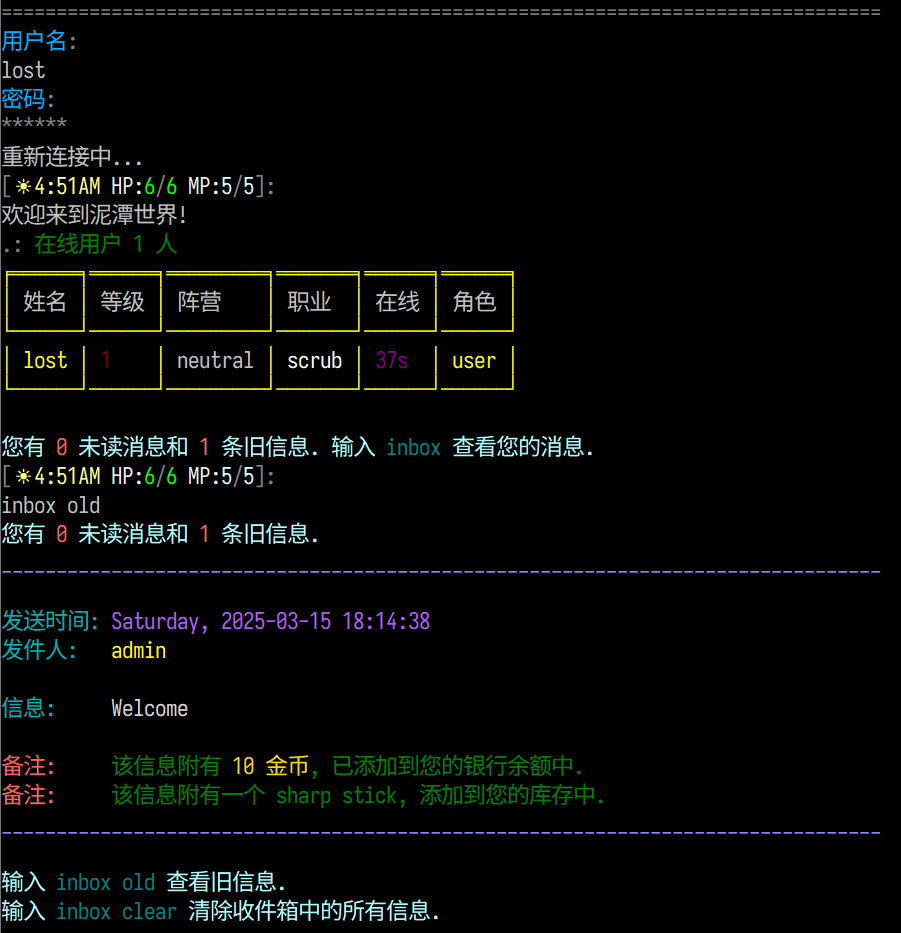
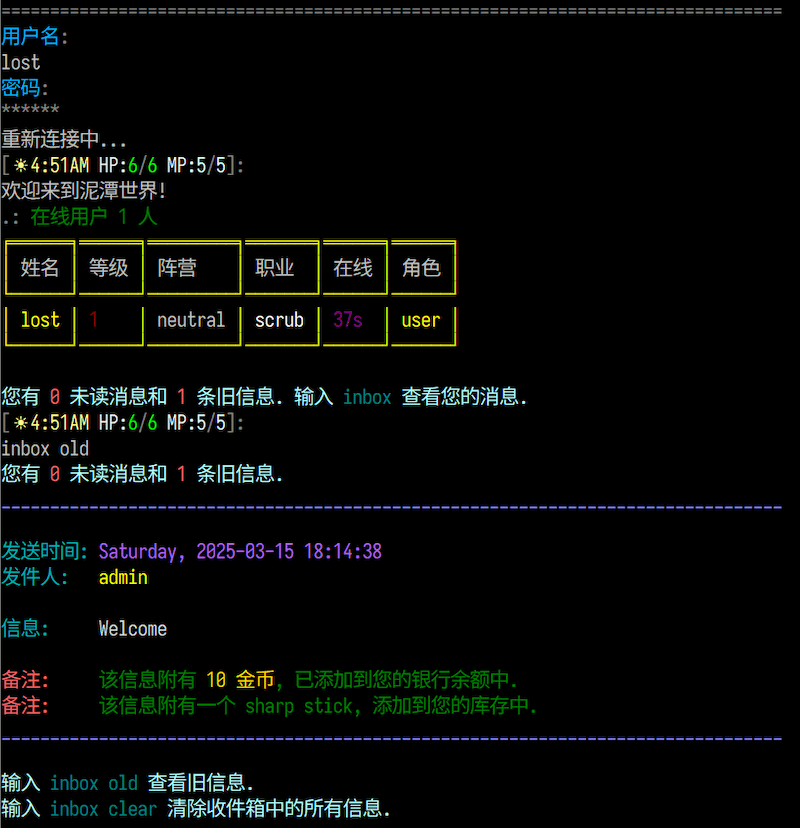
Fixing image path, shrinking image (#298)
# Changes
* Set translation feature screenshot to 800px wide and 72dpi, ran through tinypng.com
* Fixed path to image in README.md

diff --git a/feature-screenshots/README.md b/feature-screenshots/README.md
@@ -255,4 +255,4 @@ Documentation: [Translation](../_datafiles/guides/translation/README.md)
 
 _For example: Chinese translations._
 
-<a href="https://raw.githubusercontent.com/Volte6/GoMud/refs/heads/master/feature-screenshots/i18n-translation-zh.png"><img src="https://raw.githubusercontent.com/Volte6/GoMud/refs/heads/master/feature-screenshots/i18n-translation-zh.png" width="600" alt="accessibility text"></a>
+<a href="https://raw.githubusercontent.com/Volte6/GoMud/refs/heads/master/feature-screenshots/translation-zh.png"><img src="https://raw.githubusercontent.com/Volte6/GoMud/refs/heads/master/feature-screenshots/translation-zh.png" width="600" alt="accessibility text"></a>
